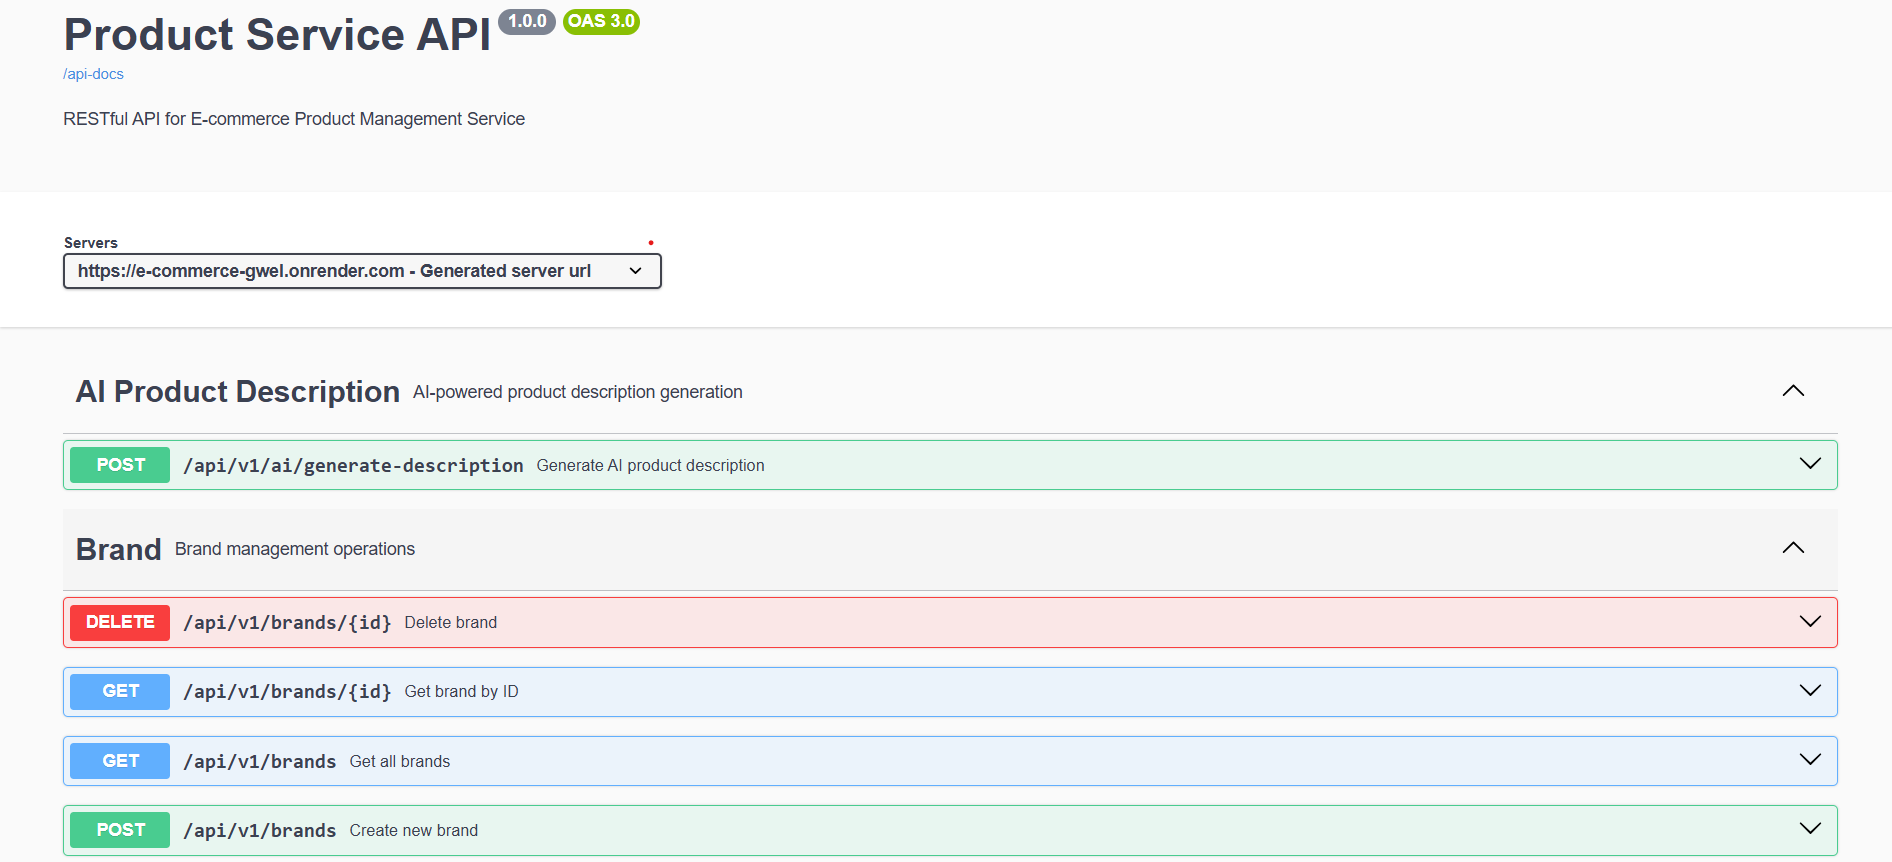
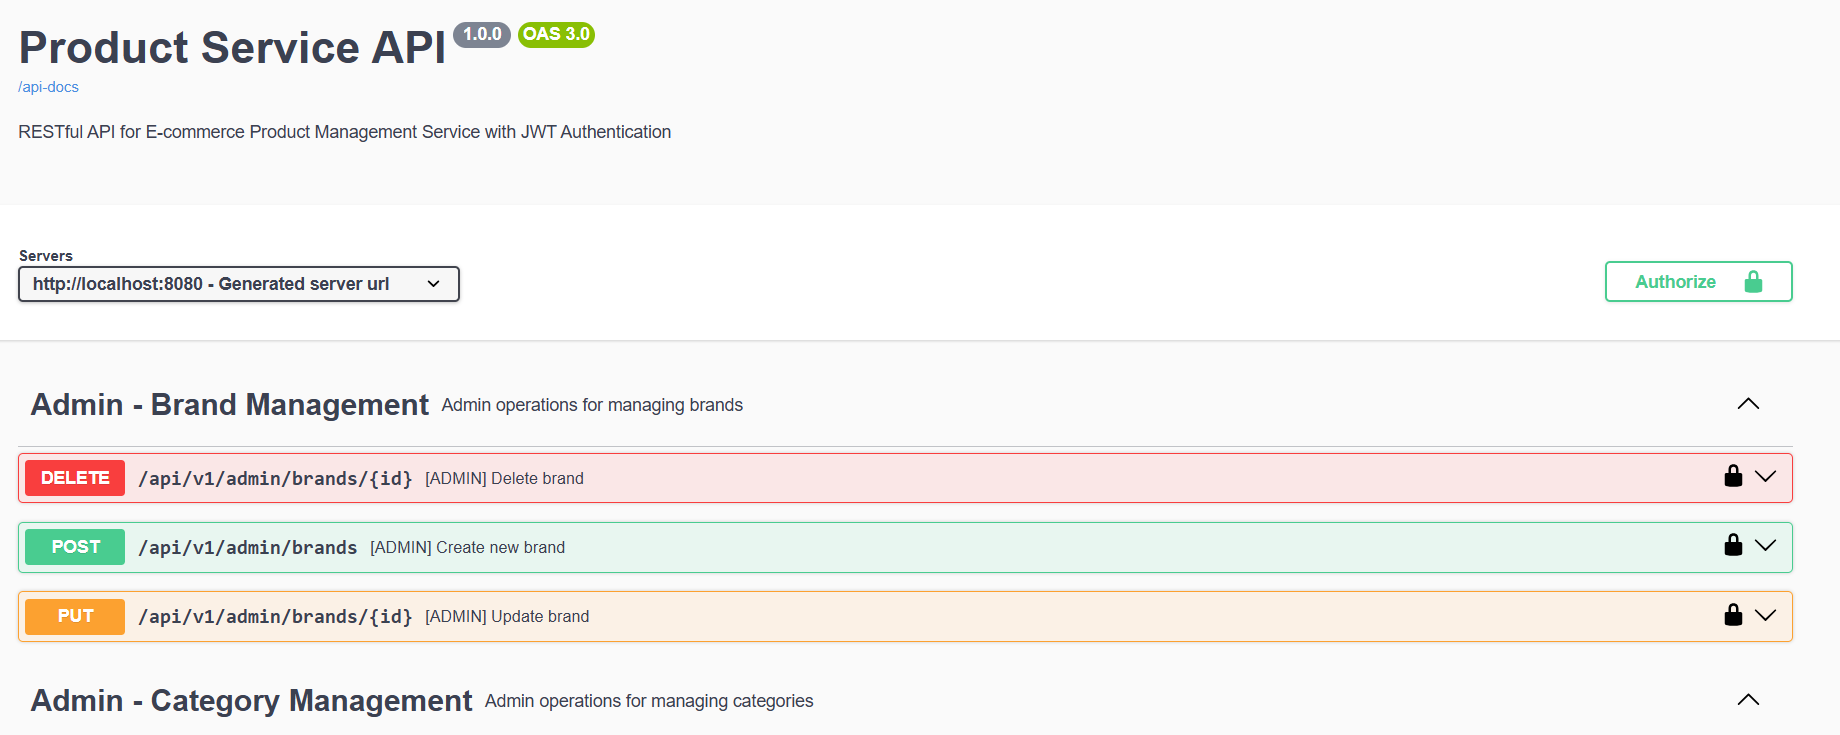
feat: Update README with JWT authentication details and admin role requirements

diff --git a/README.md b/README.md
@@ -105,11 +105,13 @@ For the service, the project follows a layered architecture:
 - spring-boot-starter-actuator : Monitoring and health management
 - spring-boot-starter-data-jpa : Spring Data JPA for database operations
 - spring-boot-starter-validation : Jakarta Bean Validation
+- spring-boot-starter-security : Authentication and authorization (JWT-based)
 - postgresql : PostgreSQL database driver
 - flyway-core : Database migration management
 - mapstruct : Object mapping code generator
 - lombok : Reduce boilerplate code
 - springdoc-openapi-starter-webmvc-ui : OpenAPI 3 / Swagger UI documentation
+- jjwt (api/impl/jackson) : JWT parsing and validation
 - spring-boot-starter-test : Testing components
 - spring-boot-devtools : Development environment support
 
@@ -122,54 +124,74 @@ The service provides interactive API documentation using Swagger UI. In the abse
 
 **Local Development URL**: http://localhost:8080/swagger-ui.html
 
+Authentication and Authorization
+The service uses stateless JWT authentication. Public endpoints are accessible without a token, while write/admin operations require a valid JWT in the `Authorization` header and an `ADMIN` role where enforced.
+
+Swagger UI Authorization
+Use the `Authorize` button and provide the token value as: `Bearer <JWT>`.
+
 ![Swagger UI](data/images/swagger_ui.png)
 
 ##### Main API Endpoints
 
-**Brand Management**
+**Brand Management (Public)**
 ```
 GET    /api/v1/brands              - List all brands (paginated, searchable)
 GET    /api/v1/brands/{id}         - Get brand by ID
-POST   /api/v1/brands              - Create new brand
-PUT    /api/v1/brands/{id}         - Update brand
-DELETE /api/v1/brands/{id}         - Soft delete brand
 ```
 
-**Category Management**
+**Brand Management (Admin - Requires ADMIN role)**
+```
+POST   /api/v1/admin/brands        - Create new brand
+PUT    /api/v1/admin/brands/{id}   - Update brand
+DELETE /api/v1/admin/brands/{id}   - Soft delete brand
+```
+
+**Category Management (Public)**
 ```
 GET    /api/v1/categories          - List all categories (paginated, searchable)
 GET    /api/v1/categories/{id}     - Get category by ID
-POST   /api/v1/categories          - Create new category
-PUT    /api/v1/categories/{id}     - Update category
-DELETE /api/v1/categories/{id}     - Soft delete category
 ```
 
-**Product Management**
+**Category Management (Admin - Requires ADMIN role)**
+```
+POST   /api/v1/admin/categories        - Create new category
+PUT    /api/v1/admin/categories/{id}   - Update category
+DELETE /api/v1/admin/categories/{id}   - Soft delete category
+```
+
+**Product Management (Public)**
 ```
 GET    /api/v1/products            - List all products (paginated, searchable)
 GET    /api/v1/products/{id}       - Get product by ID
-POST   /api/v1/products            - Create new product
-PUT    /api/v1/products/{id}       - Update product
-DELETE /api/v1/products/{id}       - Soft delete product
+```
+
+**Product Management (Admin - Requires ADMIN role)**
+```
+POST   /api/v1/admin/products        - Create new product
+PUT    /api/v1/admin/products/{id}   - Update product
+DELETE /api/v1/admin/products/{id}   - Soft delete product
 ```
 
 **Product Variant Management**
 ```
+GET    /api/v1/products/{productId}/variants/options      - Get variant options (public)
+POST   /api/v1/products/{productId}/variants/options      - Create/update variant options (ADMIN)
+DELETE /api/v1/products/{productId}/variants/options      - Delete variant options (ADMIN)
 GET    /api/v1/products/{productId}/variants              - List product variants
 GET    /api/v1/products/{productId}/variants/{id}         - Get variant by ID
-POST   /api/v1/products/{productId}/variants              - Create new variant
-PUT    /api/v1/products/{productId}/variants/{id}         - Update variant
-DELETE /api/v1/products/{productId}/variants/{id}         - Delete variant
-POST   /api/v1/products/{productId}/variants/bulk         - Bulk create variants
+POST   /api/v1/products/{productId}/variants              - Create new variant (ADMIN)
+PUT    /api/v1/products/{productId}/variants/{id}         - Update variant (ADMIN)
+DELETE /api/v1/products/{productId}/variants/{id}         - Delete variant (ADMIN)
+POST   /api/v1/products/{productId}/variants/bulk         - Bulk create variants (ADMIN)
 ```
 
 **Product Image Management**
 ```
 GET    /api/v1/products/{productId}/images                - List product images
 GET    /api/v1/products/{productId}/images/{id}           - Get image by ID
-POST   /api/v1/products/{productId}/images                - Upload product image
-PUT    /api/v1/products/{productId}/images/{id}           - Update image
-DELETE /api/v1/products/{productId}/images/{id}           - Delete image
+POST   /api/v1/products/{productId}/images                - Upload product image (ADMIN)
+POST   /api/v1/products/{productId}/images/multiple       - Upload multiple images (ADMIN)
 ```
 
 **Price History**
@@ -214,6 +236,10 @@ cp .env.example .env
 DB_URL=jdbc:postgresql://localhost:5432/product_service_db
 DB_USERNAME=postgres
 DB_PASSWORD=your_password
+
+# JWT configuration (token is issued by an authentication service)
+JWT_SECRET=your_jwt_secret
+JWT_EXPIRATION=86400000
 ```
 
 **3. Create database**
